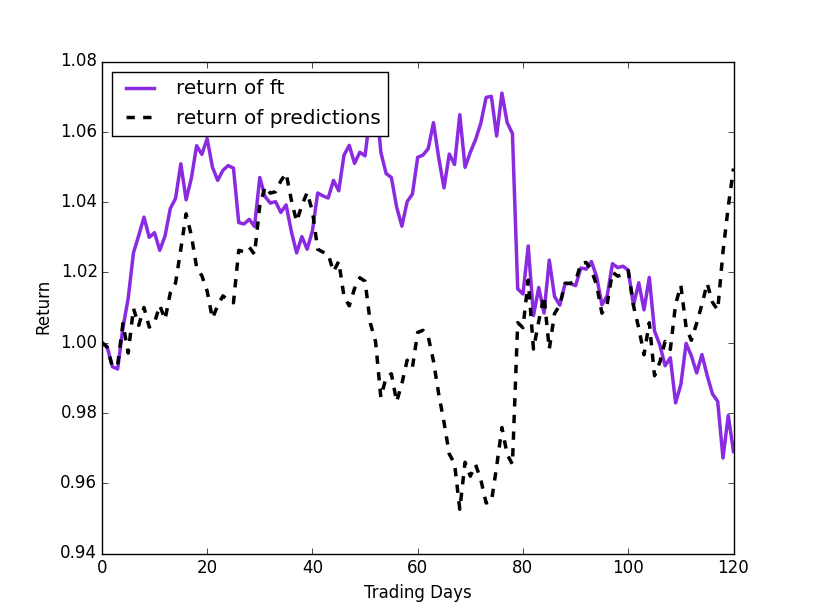
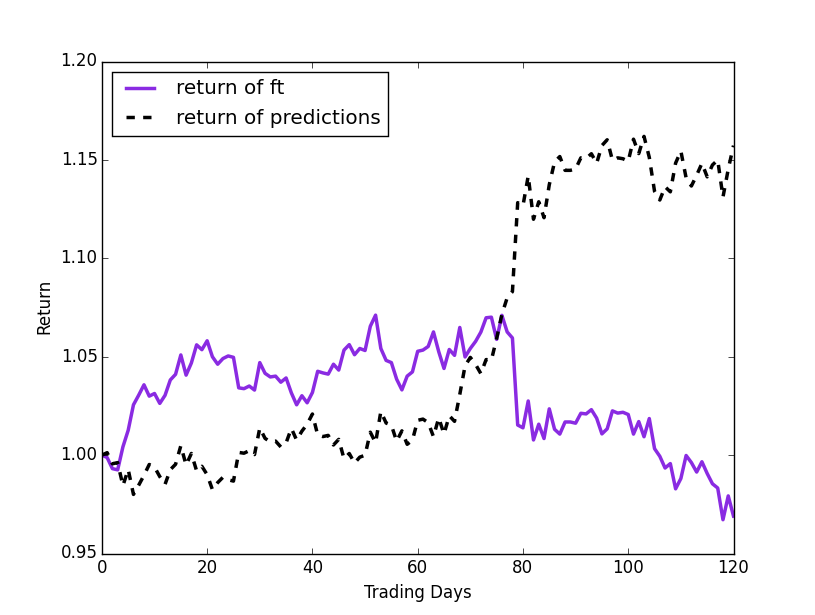
Exxon fixed

diff --git a/Repository/Price Prediction/prediction.py b/Repository/Price Prediction/prediction.py
@@ -167,8 +167,8 @@ def main():
     print(company)
     print("*" * 100)
 
-    window = 320
-    prediction_window = 10
+    window = 120
+    prediction_window = 20
 
     sentiment_data = convert_to_numpy_array(sentiment_file.values, 2)
     data_difference = (svm_file.shape[0] - sentiment_data.shape[0] - 20)
@@ -181,12 +181,12 @@ def main():
 
     # Add sentiment data
     # sentiment_data[-120:] = convert_to_numpy_array(sent_svm.values, 2)
-    x_data = np.column_stack((x_data[229:, :], sentiment_data[229:, :]))
+    x_data = np.column_stack((x_data[429:, :], sentiment_data[429:, :]))
 
     # x_data = x_data[229:, :]
     y_data = svm_file.values[20:, 14]
     y_data = convert_to_numpy_array(y_data, 1)
-    y_data = y_data[229:]
+    y_data = y_data[429:]
 
     scalar = MinMaxScaler(feature_range=(-1, 1), copy=False)
     x_data = scalar.fit_transform(x_data)
